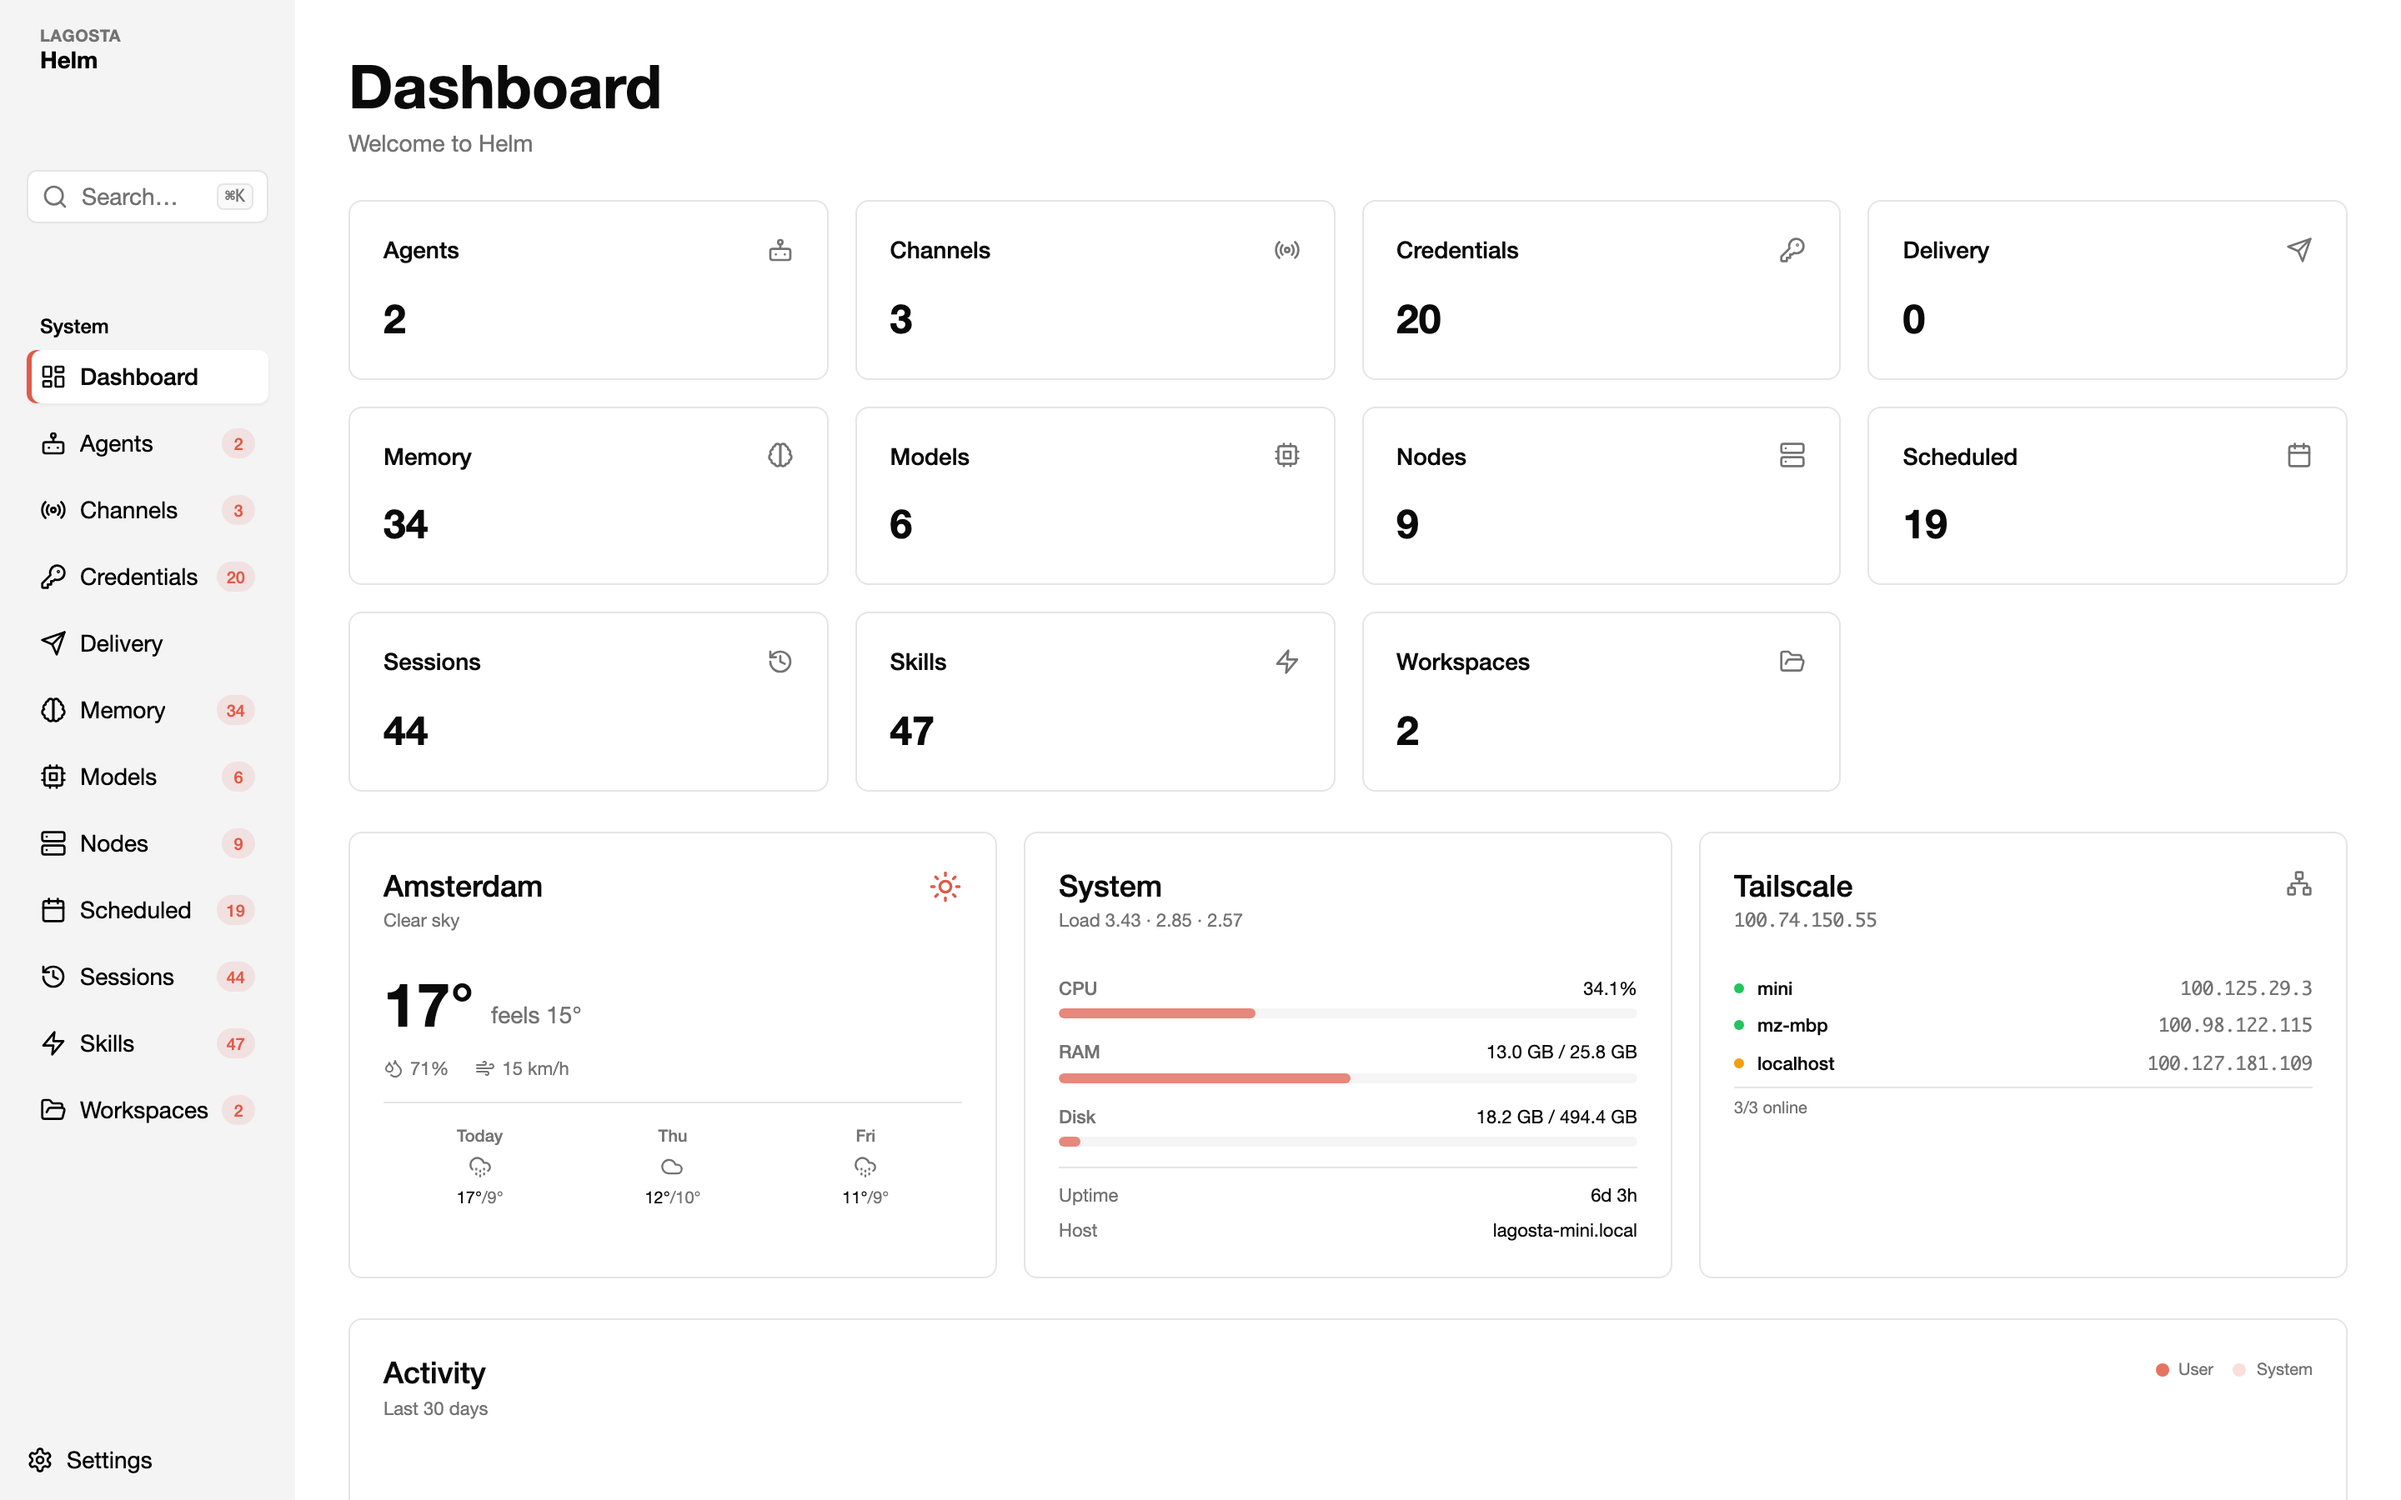
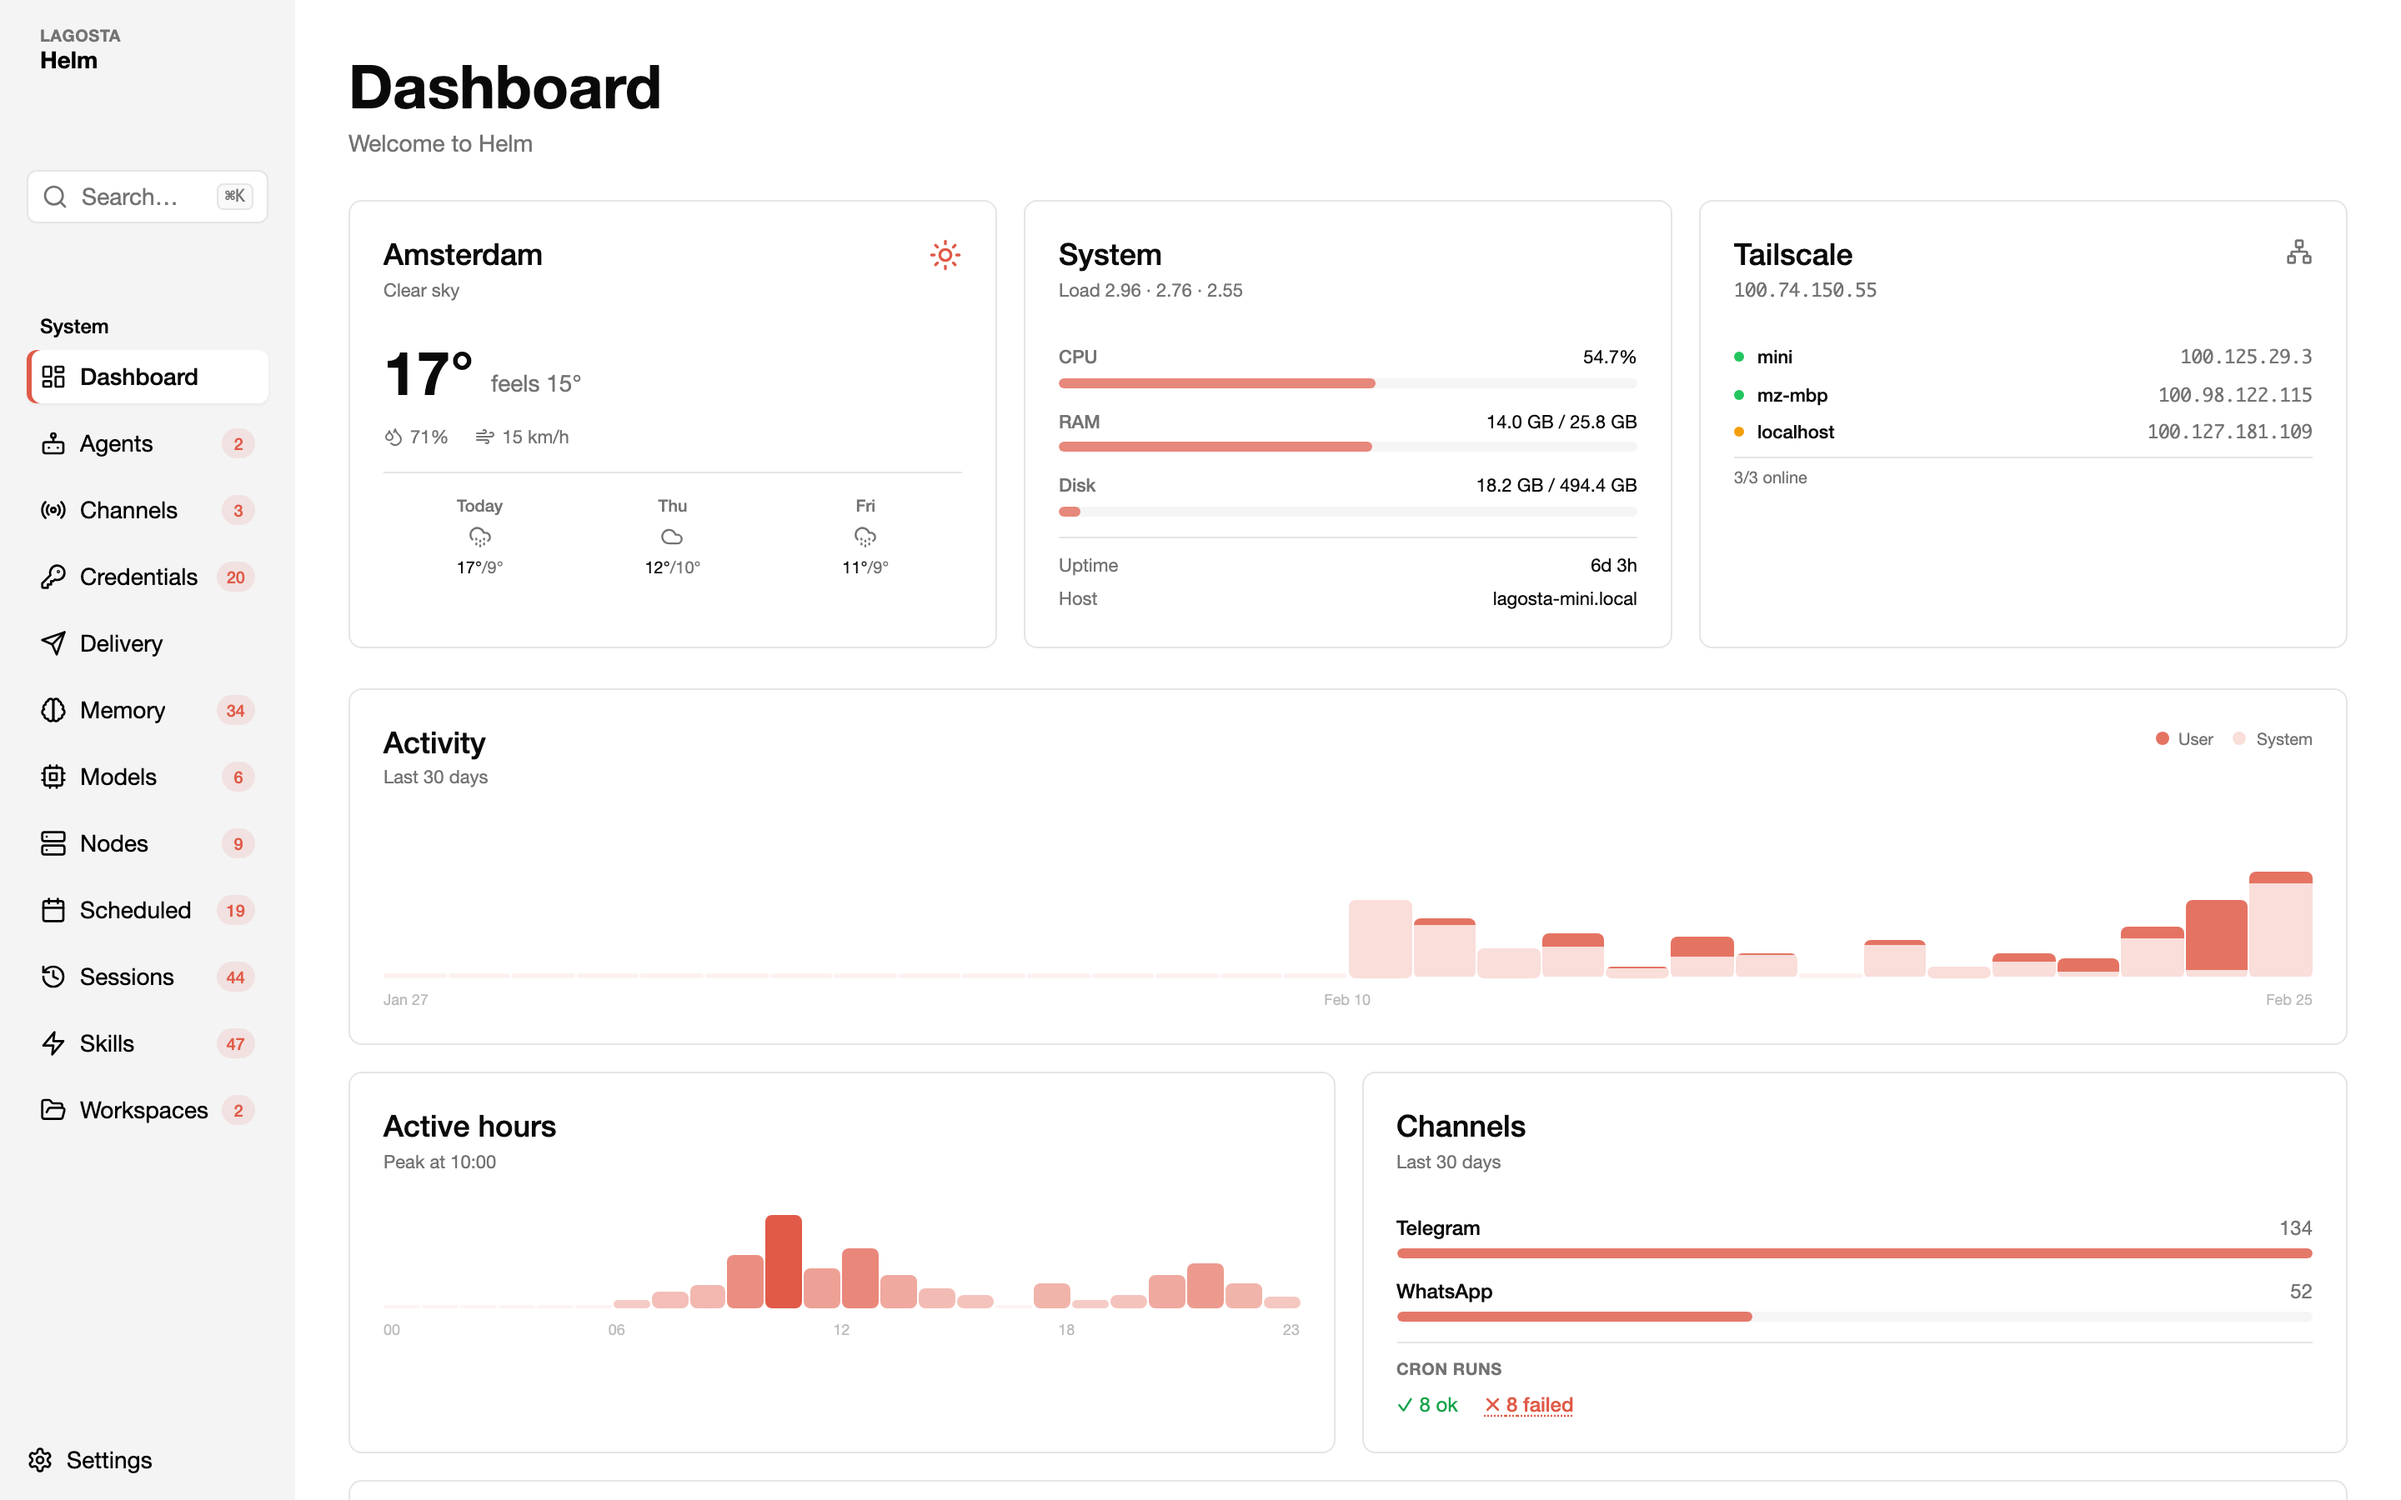
Dashboard: remove count tiles

diff --git a/pages/index.tsx b/pages/index.tsx
@@ -3,13 +3,9 @@ import Layout from "@/components/Layout";
 import { ActivityCharts } from "@/components/ActivityCharts";
 import { Card, CardContent, CardHeader, CardTitle } from "@/components/ui/card";
 import {
-  Brain, Bot, Calendar, History, Server, Zap, FolderOpen,
-  Cpu, Radio, KeyRound, Send,
   Sun, Cloud, CloudDrizzle, CloudRain, CloudSnow, CloudLightning,
   Droplets, Wind, Network,
 } from "lucide-react";
-import Link from "next/link";
-import { useCounts } from "@/lib/counts-context";
 import { useAutoRefresh } from "@/lib/settings-context";
 import type { SystemMetrics } from "./api/system";
 import type { WeatherData } from "./api/weather";
@@ -296,21 +292,6 @@ function TailscaleCard() {
 // ── Dashboard ─────────────────────────────────────────────────────────────
 
 export default function Dashboard() {
-  const { counts } = useCounts();
-
-  const stats = [
-    { label: "Agents",      value: counts?.agents,        icon: Bot,      href: "/agents"      },
-    { label: "Channels",    value: counts?.channels,      icon: Radio,    href: "/channels"    },
-    { label: "Credentials", value: counts?.credentials,   icon: KeyRound, href: "/credentials" },
-    { label: "Delivery",    value: counts?.deliveryQueue, icon: Send,     href: "/delivery"    },
-    { label: "Memory",      value: counts?.memory,        icon: Brain,    href: "/memory"      },
-    { label: "Models",      value: counts?.models,        icon: Cpu,      href: "/models"      },
-    { label: "Nodes",       value: counts?.nodes,         icon: Server,   href: "/nodes"       },
-    { label: "Scheduled",   value: counts?.scheduled,     icon: Calendar, href: "/scheduled"   },
-    { label: "Sessions",    value: counts?.sessions,      icon: History,  href: "/sessions"    },
-    { label: "Skills",      value: counts?.skills,        icon: Zap,      href: "/skills"      },
-    { label: "Workspaces",  value: counts?.workspaces,    icon: FolderOpen, href: "/workspaces" },
-  ];
 
   return (
     <Layout>
@@ -318,28 +299,6 @@ export default function Dashboard() {
         <div>
           <h1 className="text-2xl sm:text-4xl font-bold">Dashboard</h1>
           <p className="text-xs sm:text-sm text-muted-foreground mt-1">Welcome to Helm</p>
-        </div>
-
-        {/* Count tiles */}
-        <div className="grid grid-cols-2 sm:grid-cols-3 lg:grid-cols-4 gap-2 sm:gap-4">
-          {stats.map((stat) => {
-            const Icon = stat.icon;
-            return (
-              <Link key={stat.label} href={stat.href} className="block">
-                <Card className="cursor-pointer hover:shadow-md active:scale-[0.98] transition-all h-full">
-                  <CardHeader className="flex flex-row items-center justify-between space-y-0">
-                    <CardTitle className="text-xs sm:text-sm font-medium">{stat.label}</CardTitle>
-                    <Icon className="h-3 sm:h-4 w-3 sm:w-4 text-muted-foreground flex-shrink-0" />
-                  </CardHeader>
-                  <CardContent>
-                    <div className="text-xl sm:text-2xl font-bold">
-                      {counts === null ? "—" : (stat.value ?? 0)}
-                    </div>
-                  </CardContent>
-                </Card>
-              </Link>
-            );
-          })}
         </div>
 
         {/* Weather · System · Tailscale */}
